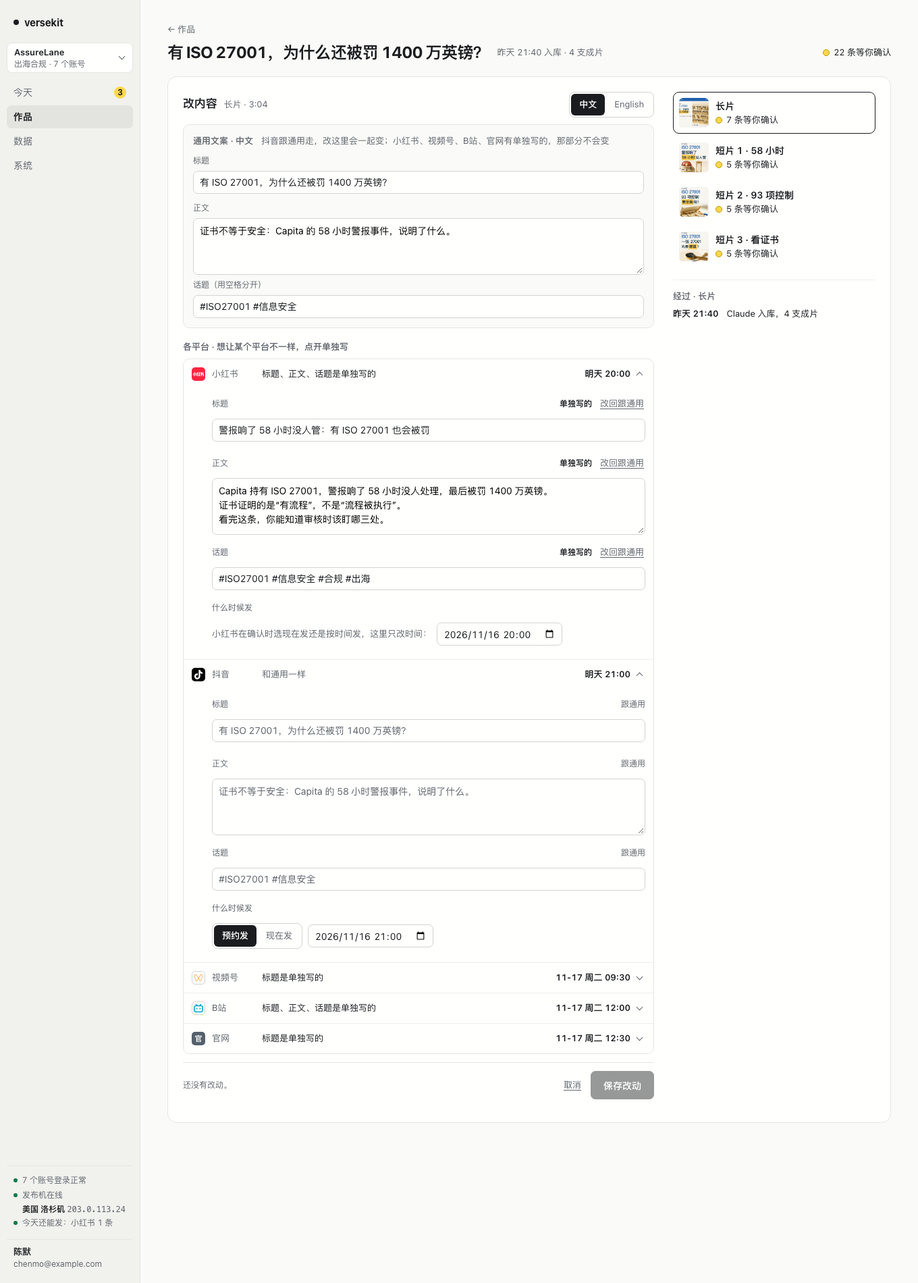
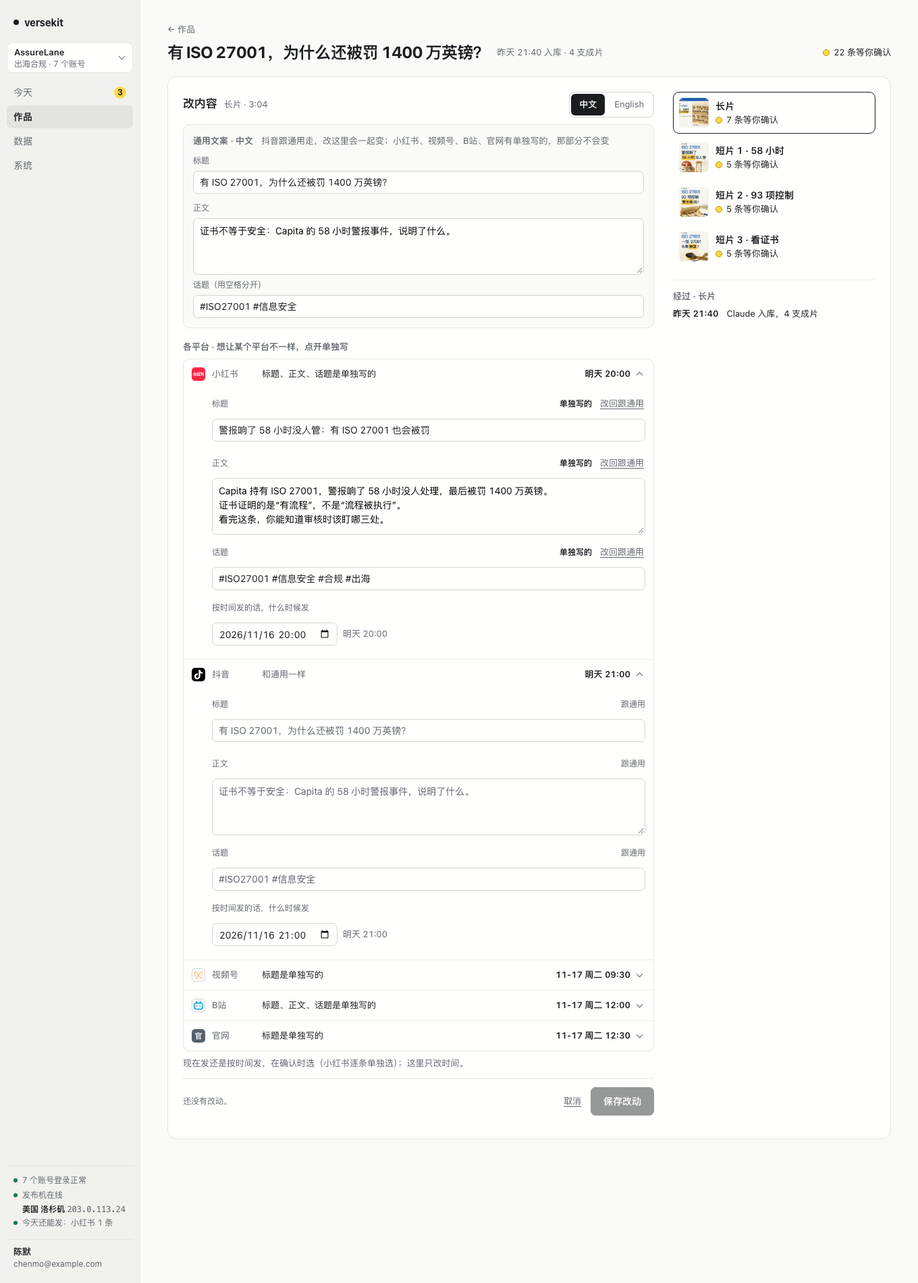
docs(docs): 原型和截图跟上「只在底栏整批选」，补现在发也要过检查的口径
#236 是在第二个提交推上去之前合并的，main 上的原型和 work-edit 截图还画着编辑里的「预约发 / 现在发」开关，和 #237 新定的口径对不上。这里把原型、截图、DESIGN.md、ADR-0005 跟上；已确认的稿子不能在编辑里改成现在发，相关两条口径一起改。

另补一条：现在发也要照样过每日上限、最小间隔、出口位置和登录状态。#237 已经用了 time-08，这条排在 time-09，不改动已有编号。

Changed region(s): [[0.1853, 0.7142, 0.4941, 0.8695], [0.6176, 0.7453, 0.7103, 0.8695], [0.2162, 0.4658, 0.4015, 0.4968]]

diff --git a/docs/design/app.js b/docs/design/app.js
@@ -224,7 +224,8 @@ function confirmPanel(work, cut, opts = {}) {
       ? `<video controls preload="none" poster="${cut.poster}" src="${cut.versions[ver][1]}"></video>`
       : `<img class="poster" src="${cut.poster}" alt="${esc(cut.name)}的封面">`;
     const anyOpen = cut.pubs.some((x) => x.state === 'pending');
-    const nowN = batch.filter((x) => x.timing === 'now').length; const mode = !nowN ? 'at' : nowN === batch.length ? 'now' : 'mix';
+    // 现在发还是预约发只在这里整批选（所有者 2026-11-18 定），编辑里只改时间，所以没有混合状态
+    const mode = batch.length && batch.every((x) => x.timing === 'now') ? 'now' : 'at';
     const held = cut.pubs.filter((x) => paused(x.pf) && (x.state === 'pending' || x.state === 'confirmed'));
     const late = (x) => (x.was && x.timing === 'at' && x.state === 'pending' ? `<span class="sub"> · 原定${when(x.was).text}，已顺延</span>` : '');
     el.innerHTML = `
@@ -251,7 +252,7 @@ function confirmPanel(work, cut, opts = {}) {
         return `<div class="solo"><div class="sh">${pf('xhs')}小红书 · 每条都要你单独确认${x.state === 'pending' ? '<button class="link" style="margin-left:auto" data-edit="' + i + '" aria-label="改小红书的内容或时间">改</button>' : ''}</div><div class="ti">${esc(x.title)}</div><div class="sub">${esc(x.note || '竖屏 · 封面 3:4')}${x.was && x.state === 'pending' ? ` · 原定${when(x.was).text}，已过，顺延到${w.text}` : ''}</div><button class="tog" type="button" data-more="${i}" aria-expanded="${opened.has(i)}">${opened.has(i) ? '收起正文和话题' : '看正文和话题'}</button>${opened.has(i) ? detHtml(x) : ''}${body}</div>`;
       }).join('')}
       ${batch.length
-        ? `<div class="cfoot"><span class="hint">${held.length ? '暂停的平台要等位置处理完才会发。' : mode === 'now' ? '确认后马上开始发。' : mode === 'mix' ? `${nowN} 条现在发，其余按时间发。` : '没确认的到时间也不会发。'}</span><button class="link" data-skipcut>${one ? '先不发' : '这支先不发'}</button><span class="seg" role="group" aria-label="什么时候发"><button data-mode="at" aria-pressed="${mode === 'at'}">预约发</button><button data-mode="now" aria-pressed="${mode === 'now'}">现在发</button></span><button class="btn pri lg" data-confirm>确认这 ${batch.length} 条，${mode === 'now' ? '现在发' : mode === 'mix' ? '开始发' : '按时间发'}</button></div>`
+        ? `<div class="cfoot"><span class="hint">${held.length ? '暂停的平台要等位置处理完才会发。' : mode === 'now' ? '确认后马上开始发。' : '没确认的到时间也不会发。'}</span><button class="link" data-skipcut>${one ? '先不发' : '这支先不发'}</button><span class="seg" role="group" aria-label="什么时候发"><button data-mode="at" aria-pressed="${mode === 'at'}">预约发</button><button data-mode="now" aria-pressed="${mode === 'now'}">现在发</button></span><button class="btn pri lg" data-confirm>确认这 ${batch.length} 条，${mode === 'now' ? '现在发' : '按时间发'}</button></div>`
         : cut.skipped ? '<div class="cfoot"><div class="done-note">这支先不发。以后可以在作品里再确认。</div></div>'
         : rest.some((x) => x.state === 'confirmed') ? `<div class="cfoot"><div class="done-note">${one ? '' : esc(cut.name) + '的 '}${rest.filter((x) => x.state === 'confirmed').length} 条已确认，${rest.some((x) => x.state === 'confirmed' && x.timing === 'at') ? '会按时间发' : '正在发'}。</div></div>` : ''}`;
   };
@@ -270,7 +271,7 @@ function confirmPanel(work, cut, opts = {}) {
     Object.entries(ed.common).forEach(([L, v]) => FIELDS.forEach(([f]) => { if (!same(f, v[f], f === 'tags' ? tagStr(cut.common[L].tags) : cut.common[L][f])) n++; }));
     ed.pubs.forEach((d, i) => { const x = cut.pubs[i];
       FIELDS.forEach(([f]) => { const was = x.own[f] == null ? null : f === 'tags' ? tagStr(x.own[f]) : x.own[f]; const now = d.own[f] ?? null; if ((was == null) !== (now == null) || (was != null && !same(f, was, now))) n++; });
-      if (d.timing !== x.timing || (d.timing === 'at' && d.at !== x.at)) n++; });
+      if (d.at !== x.at) n++; });
     return n;
   };
   // 超过平台限制、时间过了、碰到平台规则：当场说，不等到保存
@@ -278,7 +279,7 @@ function confirmPanel(work, cut, opts = {}) {
   const titleErr = (i) => { const x = cut.pubs[i]; const v = val(i, 'title'); if (v === x.title) return ''; const lim = LIM[x.pf]?.title; const n = [...v].length;
     return !v.trim() ? (ed.pubs.get(i).own.title != null ? `${PF[x.pf][1]}的标题不能是空的。` : '') : lim && n > lim ? `${PF[x.pf][1]}的标题最多 ${lim} 字，现在 ${n} 字。` : ''; };
   const timeErr = (i) => {
-    const d = ed.pubs.get(i); const x = cut.pubs[i]; if (d.timing === 'now' || (d.timing === x.timing && d.at === x.at)) return null;
+    const d = ed.pubs.get(i); const x = cut.pubs[i]; if (d.at === x.at) return null;
     if (!d.at || d.at < NOW) return { msg: '这个时间已经过了。', use: nextSlot(d.at) };
     if (x.pf === 'xhs' && allPubs().some((r) => r.x !== x && r.x.pf === 'xhs' && r.x.state !== 'published' && r.x.state !== 'skip' && r.x.at.slice(0, 10) === d.at.slice(0, 10))) {
       let day = d.at.slice(0, 10); do day = dayAdd(day, 1); while (allPubs().some((r) => r.x !== x && r.x.pf === 'xhs' && r.x.at.slice(0, 10) === day));
@@ -288,8 +289,7 @@ function confirmPanel(work, cut, opts = {}) {
   };
   const errAt = () => [...ed.pubs.keys()].filter((i) => titleErr(i) || timeErr(i));
   const errCount = () => errAt().reduce((n, i) => n + (titleErr(i) ? 1 : 0) + (timeErr(i) ? 1 : 0), 0) + Object.values(ed.common).filter((v) => !v.title.trim()).length;
-  // 已确认的改成「现在发」：保存就等于马上发，按钮上要写出来
-  const nowConf = () => [...ed.pubs.keys()].filter((i) => cut.pubs[i].state === 'confirmed' && ed.pubs.get(i).timing === 'now');
+
   const sumOf = (i) => { const own = FIELDS.filter(([f]) => ed.pubs.get(i).own[f] != null).map(([, n]) => n); return own.length ? `${own.join('、')}是单独写的` : '和通用一样'; };
 
   const renderEdit = () => {
@@ -303,8 +303,9 @@ function confirmPanel(work, cut, opts = {}) {
       <div class="rows">${g.map((i) => { const x = cut.pubs[i]; const d = ed.pubs.get(i); const name = PF[x.pf][1]; const open = ed.open.has(i);
         return `<div class="erow"><button class="eh" type="button" data-open="${i}" aria-expanded="${open}">${pf(x.pf)}<span class="nm">${name}</span><span class="sm" data-sum="${i}"></span><span class="tm" data-tsum="${i}"></span></button>
           ${open ? `<div class="eb">${FIELDS.map(([f, n]) => `<div class="fl"><label class="lab" for="p${i}-${f}">${n}</label><span class="fs" data-fs="${i}:${f}"></span><button class="link" type="button" data-follow="${i}:${f}">改回跟通用</button></div>${f === 'body' ? `<textarea id="p${i}-${f}" data-pf="${i}:${f}">${esc(val(i, f))}</textarea>` : `<input type="text" id="p${i}-${f}" data-pf="${i}:${f}" value="${esc(val(i, f))}">`}${f === 'title' ? `<div data-perr="${i}"></div>` : ''}`).join('')}
-            <div class="fl"><span class="lab">什么时候发</span></div>
-            <div class="tmr">${x.solo && x.state === 'pending' ? '<span class="sub">小红书在确认时选现在发还是按时间发，这里只改时间：</span>' : `<span class="seg" role="group" aria-label="${name}什么时候发"><button data-tm="${i}:at" aria-pressed="${d.timing === 'at'}">预约发</button><button data-tm="${i}:now" aria-pressed="${d.timing === 'now'}">现在发</button></span>`}${d.timing === 'at' ? `<input type="datetime-local" data-at="${i}" min="${NOW}" value="${d.at}" aria-label="${name} 发布时间">` : '<span class="sub">确认后马上发，不用定时间</span>'}</div><div data-terr="${i}"></div></div>` : ''}</div>`; }).join('')}</div>
+            <div class="fl"><label class="lab" for="p${i}-at">按时间发的话，什么时候发</label></div>
+            <div class="tmr"><input type="datetime-local" id="p${i}-at" data-at="${i}" min="${NOW}" value="${d.at}"><span class="sub" data-trel="${i}">${when(d.at).text}</span></div><div data-terr="${i}"></div></div>` : ''}</div>`; }).join('')}</div>
+      <p class="sub" style="margin:8px 0 0">现在发还是按时间发，在确认时选${cut.pubs.some((x) => x.solo && x.state === 'pending') ? '（小红书逐条单独选）' : ''}；这里只改时间。</p>
       <div class="cfoot" data-efoot></div>`;
     sync();
   };
@@ -317,25 +318,25 @@ function confirmPanel(work, cut, opts = {}) {
     const over = keys.filter((i) => ed.pubs.get(i).own.title == null && titleErr(i));
     el.querySelector('[data-cerr]').innerHTML = (ed.common[ed.L].title.trim() ? '' : '<div class="err">通用标题不能是空的。</div>') + over.map((i) => `<div class="err">${titleErr(i)}<button class="link" type="button" data-own="${i}:title">给${PF[cut.pubs[i].pf][1]}单独写一个</button></div>`).join('');
     keys.forEach((i) => { const d = ed.pubs.get(i); const sm = el.querySelector(`[data-sum="${i}"]`); sm.textContent = sumOf(i); sm.classList.toggle('own', FIELDS.some(([f]) => d.own[f] != null));
-      const ts = el.querySelector(`[data-tsum="${i}"]`); ts.textContent = titleErr(i) || timeErr(i) ? '有要处理的' : tmText(d.timing, d.at); ts.classList.toggle('bad', !!(titleErr(i) || timeErr(i)));
+      const ts = el.querySelector(`[data-tsum="${i}"]`); ts.textContent = titleErr(i) || timeErr(i) ? '有要处理的' : tmText(d.timing, d.at); ts.classList.toggle('bad', !!(titleErr(i) || timeErr(i))); const tr = el.querySelector(`[data-trel="${i}"]`); if (tr) tr.textContent = d.at ? when(d.at).text : '';
       if (!ed.open.has(i)) return;
       FIELDS.forEach(([f]) => { const own = d.own[f] != null; const fs = el.querySelector(`[data-fs="${i}:${f}"]`); fs.textContent = own ? '单独写的' : '跟通用'; fs.classList.toggle('own', own);
         el.querySelector(`[data-follow="${i}:${f}"]`).hidden = !own;
         const inp = el.querySelector(`[data-pf="${i}:${f}"]`); inp.classList.toggle('fol', !own); if (!own && document.activeElement !== inp) inp.value = val(i, f); });
       const te = titleErr(i); el.querySelector(`[data-perr="${i}"]`).innerHTML = te && d.own.title != null ? `<div class="err">${te}</div>` : '';
       const tm = timeErr(i); el.querySelector(`[data-terr="${i}"]`).innerHTML = tm ? `<div class="err">${tm.msg}最近能排 ${when(tm.use).text}。<button class="link" type="button" data-use="${i}:${tm.use}">用这个时间</button></div>` : ''; });
-    const n = dirty(); const bad = errCount(); const conf = [...ed.pubs.keys()].some((i) => cut.pubs[i].state === 'confirmed'); const nc = nowConf();
+    const n = dirty(); const bad = errCount(); const conf = [...ed.pubs.keys()].some((i) => cut.pubs[i].state === 'confirmed');
     el.querySelectorAll('[data-lang]').forEach((b) => { const k = errAt().filter((i) => cut.pubs[i].L === b.dataset.lang).length; b.textContent = b.dataset.lang + (k ? ` · ${k} 处要处理` : ''); });
     el.querySelector('[data-efoot]').innerHTML = ed.ask
       ? `<span class="ask">放弃这 ${n} 处改动？</span><button class="btn" data-keep>接着改</button><button class="btn" data-drop>放弃改动</button>`
-      : `<span class="hint">${bad ? `<span class="err">还有 ${bad} 处要先处理。<button class="link" type="button" data-goerr>带我去</button></span>` : nc.length ? `${nc.map((i) => PF[cut.pubs[i].pf][1]).join('、')}已经确认过，改成了现在发：保存后马上发。` : n ? `改了 ${n} 处。${conf ? '已确认的仍按原来的时间发。' : '保存后还要你确认才会发。'}` : '还没有改动。'}</span><button class="link" data-cancel>取消</button><button class="btn pri lg" data-savee ${!n || bad ? 'disabled' : ''}>${nc.length && !bad ? `保存，${nc.length} 条现在就发` : '保存改动'}</button>`;
+      : `<span class="hint">${bad ? `<span class="err">还有 ${bad} 处要先处理。<button class="link" type="button" data-goerr>带我去</button></span>` : n ? `改了 ${n} 处。${conf ? '已确认的仍按原来的时间发。' : '保存后还要你确认才会发。'}` : '还没有改动。'}</span><button class="link" data-cancel>取消</button><button class="btn pri lg" data-savee ${!n || bad ? 'disabled' : ''}>保存改动</button>`;
   };
   const save = () => {
     const changed0 = Object.entries(ed.common).filter(([L, v]) => FIELDS.some(([f]) => !same(f, v[f], f === 'tags' ? tagStr(cut.common[L].tags) : cut.common[L][f]))).map(([L]) => L);
     const kept = [...ed.pubs.keys()].filter((i) => changed0.includes(cut.pubs[i].L) && FIELDS.some(([f]) => ed.pubs.get(i).own[f] != null));
     const n = dirty();
     Object.entries(ed.common).forEach(([L, v]) => Object.assign(cut.common[L], { title: v.title, body: v.body.trim(), tags: tagList(v.tags) }));
-    ed.pubs.forEach((d, i) => { const x = cut.pubs[i]; x.own = { ...d.own, ...(d.own.tags != null ? { tags: tagList(d.own.tags) } : {}) }; if (d.timing !== x.timing || d.at !== x.at) delete x.was; x.timing = d.timing; if (d.timing === 'at') x.at = d.at; });
+    ed.pubs.forEach((d, i) => { const x = cut.pubs[i]; x.own = { ...d.own, ...(d.own.tags != null ? { tags: tagList(d.own.tags) } : {}) }; if (d.at !== x.at) { delete x.was; x.at = d.at; } });
     toast(changed0.length && kept.length ? `改好了。${kept.map((i) => PF[cut.pubs[i].pf][1]).join('、')}有单独写的，那部分没变` : `改好了 ${n} 处`);
     ed = null; changed();
   };
@@ -356,7 +357,6 @@ function confirmPanel(work, cut, opts = {}) {
       else if (ds.open) { const i = +ds.open; ed.open.has(i) ? ed.open.delete(i) : ed.open.add(i); }
       else if (ds.follow) { const [i, f] = ds.follow.split(':'); delete ed.pubs.get(+i).own[f]; }
       else if (ds.own) { const [i, f] = ds.own.split(':'); ed.pubs.get(+i).own[f] = ed.common[ed.L][f]; ed.open.add(+i); renderEdit(); el.querySelector(`[data-pf="${i}:${f}"]`).focus(); return; }
-      else if (ds.tm) { const [i, m] = ds.tm.split(':'); const d = ed.pubs.get(+i); d.timing = m; if (m === 'at' && d.at < NOW) d.at = nextSlot(d.at); }
       else if (ds.use) { const [i, ...at] = ds.use.split(':'); ed.pubs.get(+i).at = at.join(':'); }
       else if ('goerr' in ds) { const i = errAt()[0]; if (i == null) { ed.L = Object.keys(ed.common).find((L) => !ed.common[L].title.trim()); renderEdit(); el.querySelector('[data-cf=title]').focus(); return; } ed.L = cut.pubs[i].L; ed.open.add(i); renderEdit(); el.querySelector(`[data-open="${i}"]`).scrollIntoView({ block: 'center' }); return; }
       else if ('cancel' in ds) return cancel();

diff --git a/docs/design/ACCEPTANCE.md b/docs/design/ACCEPTANCE.md
@@ -402,19 +402,20 @@ curl -s 'http://127.0.0.1:8787/api/schedule?group=ai&from=2026-11-01&to=2026-11-
 - [ACC-v3-edit-04] 通用文案超过某个跟通用的平台的限制时，在通用的那个字段下面当场说是哪个平台、限多少、现在多少，并给「给<平台>单独写一个」；解决前不能保存，底栏说明还有几处。不截断。
 - [ACC-v3-edit-05] 取消：没改过直接退出；改过了在底栏就地问「放弃这 N 处改动？」，「接着改」回到编辑，输入都在。Esc 等于取消，焦点在哪都有效。打字时展开别的平台、切语言版本，已输入的内容不丢。改到一半点别的成片，同样先问这一句，不静默丢；关页面或跳走前浏览器拦一下。
 - [ACC-v3-edit-08] 保存只校验这次动过的字段：入库时就有的问题不拦无关的保存。有错时底栏写「还有 N 处要先处理」并带「带我去」，点了跳到出错的语言版本和那一行并展开；收起的行、别的语言版本的分段上都看得出有错。通用标题不能存成空。
-- [ACC-v3-edit-06] 已确认、还没发的平台稿也能改；保存后仍是已确认。把已确认的改成「现在发」时，保存就是马上发：按钮写「保存，N 条现在就发」，底栏写明是哪几个平台。已经发出去的和正在发的不能改，也不出现「改」。
+- [ACC-v3-edit-06] 已确认、还没发的平台稿也能改（按时间发的那些）；保存后仍是已确认、仍按原来的时间发，底栏写「已确认的仍按原来的时间发」。编辑里不能把它改成现在发（见 ACC-v3-time-08）。已经发出去的和正在发的不能改，也不出现「改」。
 - [ACC-v3-edit-07] Claude 再次入库同一个作品时，不覆盖人改过的字段（`edited_fields`）。有测试。
 
 ### 时间：现在发和预约发
 
-- [ACC-v3-time-01] 每条平台稿是「现在发」或「预约发」二选一。现在发没有时间字段，也不校验时间。
+- [ACC-v3-time-01] 发布方式是「现在发」或「预约发」二选一，在哪里选见 ACC-v3-time-08。现在发没有时间字段，也不因为时间报错。
 - [ACC-v3-time-02] 只改文案的保存不提交时间。有测试：一条建议时间已经过去的待确认平台稿，只改标题能保存成功。
 - [ACC-v3-time-03] 建议时间过了还没确认的，读出来时按平台规则顺延到最近可用的时间，并带「原定…，已顺延」。确认按钮不会因为时间过期而失败。有测试。
 - [ACC-v3-time-04] 预约的时间选到过去，或碰到平台规则：在时间下面当场说原因和最近能排的时间，带「用这个时间」。文案里的时间是「今天 20:00」这种说法。
-- [ACC-v3-time-07] 现在发的平台稿确认后，各处说法一致：行上「正在发」，经过里「已确认，正在发」，不出现在「接下来要发」。小红书在编辑里只改建议时间，现在发还是按时间发在确认时选。
+- [ACC-v3-time-07] 现在发的平台稿确认后，各处说法一致：行上「正在发」，经过里「已确认，正在发」，不出现在「接下来要发」。编辑里每个平台的时间框标的是「按时间发的话，什么时候发」，旁边写「明天 20:00」这种说法；列表下面一句「现在发还是按时间发，在确认时选；这里只改时间」。
 - [ACC-v3-time-05] 成片面板底栏有「预约发 / 现在发」；确认按钮的字跟着变：「确认这 N 条，按时间发」/「确认这 N 条，现在发」。小红书仍然逐条单独确认，不被带上。
 - [ACC-v3-time-06] 飞书确认卡片的改单里有「什么时候发」：选现在发时不出现时间输入。
 - [ACC-v3-time-08] 「现在发 / 预约发」只在成片面板底栏整批选（所有者 2026-11-18 定，解决 HANDOFF-v3 §6.1 第 3 条）：编辑里每个平台只改时间，没有「预约发 / 现在发」开关，和小红书现在的做法一样；不存在一批里有的现在发、有的按时间发的混合状态，底栏和确认按钮里不出现「开始发」。`work-edit.png` 里抖音那一行的开关以这一条为准、不做。
+- [ACC-v3-time-09] 现在发不绕过任何检查：确认后照样过平台的每日上限、最小间隔、出口位置（暂停中的平台不发）、账号登录状态；过不了的不发，这一行写原因和最近能发的时间，留在「今天」等人处理，不静默。有测试：小红书当天已发 1 条时选现在发，这条不发并说明原因。
 
 ### 登录平台账号（在网页上）
 

diff --git a/docs/design/DESIGN-HANDBACK-2026-11-18.md b/docs/design/DESIGN-HANDBACK-2026-11-18.md
@@ -4,6 +4,14 @@
 
 详细内容都在 `docs/design/HANDOFF-v3.md`，这一页只写你要做什么、按什么顺序、哪些不能碰。
 
+**你 11-18 提的意见，所有者的答复**（#237 已记下前三条，这里补全）：
+
+1. 不依赖多用户的 7 单马上开工，最前面插一个修不稳定测试的小单（`ACC-test-iso-01`）：同意。
+2. 做成 SaaS 的方向不变，但第 6–16 单先不评审、不派，等第 3 个用户真要来的时候再排。对象存储不提前。
+3. 现在发还是预约发只在底栏整批选，编辑里只改时间：同意。原型和截图已按这个改。
+4. 「现在发也要照样过每日上限、最小间隔、出口位置」：已补成 `ACC-v3-time-09`，归第 3 单，写单时不用另补。
+5. 你看到的「明天 20:00」和「2026/11/16 20:00」是同一天（演示里今天是 11-15）。编辑里时间框旁边现在也写「明天 20:00」了。
+
 ## 一、开工前
 
 1. 这个 PR 改了 `docs/design/ACCEPTANCE.md`（新增第十一节）。合并后先让协调器 worktree 跟上 `origin/main`，否则派工时查不到 `ACC-v3-*`、`ACC-arch-*`、`ACC-dist-*`，单子会被跳过。
@@ -11,13 +19,14 @@
 
 ## 二、现在就能派的（不等评审）
 
-六单都只在单机模式里改，不依赖多用户。建议顺序和理由在 `HANDOFF-v3.md` §3 表格下面：
+都只在单机模式里改，不依赖多用户。建议顺序和理由在 `HANDOFF-v3.md` §3 表格下面：
 
 | 先后 | 单（HANDOFF §3 的编号） | 口径 |
 |---|---|---|
+| 0 | 修全量 `npm test` 时偶尔失败的浏览器隔离测试 | `ACC-test-iso-01` |
 | 1 | 第 1 单：清掉 v1 旧样式、用上封面、侧栏额度不相加、一屏一个主按钮 | `ACC-v3-fid-01`、`03`–`06`、`08` |
-| 2 | 第 3 单：通用文案和按字段覆盖、`cut.edit`、现在发和预约发、建议时间顺延 | `ACC-v3-edit-01`、`02`、`06`、`07`；`ACC-v3-time-01`–`04` |
-| 3 | 第 4 单：改内容的界面、底栏、飞书卡片改单 | `ACC-v3-edit-03`–`05`、`08`；`ACC-v3-time-05`–`07`；`ACC-v3-fid-07` |
+| 2 | 第 3 单：通用文案和按字段覆盖、`cut.edit`、现在发和预约发、建议时间顺延 | `ACC-v3-edit-01`、`02`、`06`、`07`；`ACC-v3-time-01`–`04`、`09` |
+| 3 | 第 4 单：改内容的界面、底栏、飞书卡片改单 | `ACC-v3-edit-03`–`05`、`08`；`ACC-v3-time-05`–`08`；`ACC-v3-fid-07` |
 | 4 | 第 18 单：平台徽章换官方标志 | `ACC-v3-fid-09` |
 | 5 | 第 17 单：作品页的周视图和月视图 | `ACC-v3-cal-01`–`08` |
 | 6 | 第 5 单：界面去掉命令，补上以前只能用命令做的入口；网页上扫码和短信登录；「现在更新」 | `ACC-v3-nocli-01`–`04`；`ACC-v3-login-01`–`03`、`05`、`06`；`ACC-v3-device-05` |
@@ -33,16 +42,16 @@
 
 派工规矩照 `docs/COORDINATOR.md`：同一时间只放一单 `s:ready`；不加模型标签就是 Sonnet，要用 Opus 先问所有者；页面单不给 DeepSeek。
 
-## 三、要先评审的（评审通过前不派）
+## 三、先不评审、不派的（所有者 11-18 定）
 
-ADR-0003、0004、0005 三篇一起评审，都还是「提议」。ADR-0005 §15 里已经写了所有者 11-18 定下的六件事（邀请码注册不收费、云端放国外、每个用户接自己的飞书、不做签名安装包、IP 库、平台标志），评审不用再问这些。
+第 6–16 单等第 3 个用户真要来时再评审、再排；在那之前 ADR-0003、0004、0005 留在「提议」，`BLUEPRINT.md`、`PRD.md` 不改。到时候评审时，ADR-0005 §15 里已经写了所有者 11-18 定下的六件事（邀请码注册不收费、云端放国外、每个用户接自己的飞书、不做签名安装包、IP 库、平台标志），评审不用再问这些。
 
 评审通过后：
 
 1. 按 ADR-0005 §14 改 `docs/BLUEPRINT.md` 和 `docs/PRD.md`（托管 SaaS、D11、「不做」表）。
 2. 按 `HANDOFF-v3.md` §3 的第 6 到 16 单依次派，第 6 单（`tenancy.mjs` 和隔离遍历测试）越早越便宜。
 
-还没定、需要实测才能定的：云端和对象存储的厂商和地区（香港、新加坡、东京里挑国内连得最快的）；用户协议的文字。
+那时还要实测才能定的：云端和对象存储的厂商和地区，要从所有者的制作机（英国）和发布机实测，挑两边都快的，不要只按「离国内近」挑；用户协议的文字也还没写。
 
 ## 四、不能碰的
 

diff --git a/.impeccable/surfaces/docs-design-work-html.md b/.impeccable/surfaces/docs-design-work-html.md
@@ -44,14 +44,14 @@ SIGNATURE：经过用一句人话一行，失败的一行是红字。
 **对象模型（先定这个）**
 - 文案分两层：**通用文案**属于「这支成片的这个语言版本」（标题、正文、话题）；每条平台稿按字段要么**跟通用**，要么**单独写**。中文版的通用管小红书、抖音、视频号、B站、官网，英文版的管 TikTok、YouTube。
 - 改通用，跟通用的平台一起变；单独写过的不变，并且当场说出是哪几个没变。单独写的字段随时可以「改回跟通用」。
-- 时间不属于文案。每条平台稿的发布方式是二选一：**现在发**（没有时间）或**预约发**（有时间，必须在将来）。
+- 时间不属于文案。发布方式是二选一：**现在发**（没有时间）或**预约发**（有时间，必须在将来）。**只在确认时整批选**，编辑里只改时间（所有者 2026-11-18 定，避免整批和逐条互相覆盖）。
 
 **页面职责**
 - 看的时候：和 v2 一样的成片面板。底栏多一个二选一「预约发 / 现在发」，主按钮的字跟着变：「确认这 6 条，按时间发」/「确认这 6 条，现在发」。
 - 改的时候：点面板标题旁的「改内容」（或某一行的「改」）进入编辑。编辑是面板的一个状态，不另开页、不弹窗：上面是通用文案，下面每个平台一行、可展开；底栏是「取消」和「保存改动」。
 - **取消**：没改过直接退出；改过了，底栏就地问一句「放弃这 N 处改动？」。Esc 等于取消。离开页面前有未保存的改动要拦一下。
 - **保存**是一次提交：要么全部存上，要么都不存。保存不会顺带提交时间，除非你动了时间。
-- 已确认、还没发的也能改；保存按钮写清后果：「保存，仍按 今天 21:00 发」。已经发出去的不能改。
+- 已确认、还没发的（按时间发的）也能改，保存后仍按原来的时间发；编辑里不能把它改成现在发。已经发出去的、正在发的不能改。
 
 **状态词表**
 - 字段旁：`跟通用`（灰字）/ `单独写的`（墨字）+ 「改回跟通用」。

diff --git a/docs/design/FLOW-v2.md b/docs/design/FLOW-v2.md
@@ -73,7 +73,7 @@
 
 **确认这一步的改动**
 
-- 确认时选「预约发」还是「现在发」。现在发没有时间可填。
+- 确认时整批选「预约发」还是「现在发」（只在这里选，编辑里只改时间）。现在发没有时间可填，但照样过每日上限、间隔和出口位置的检查。
 - 想改内容：先改通用的，再点开某个平台单独写。能取消。保存只提交改过的东西。
 - 建议时间过了还没确认：系统自己顺延，不让人去改一个过去的时间。
 
